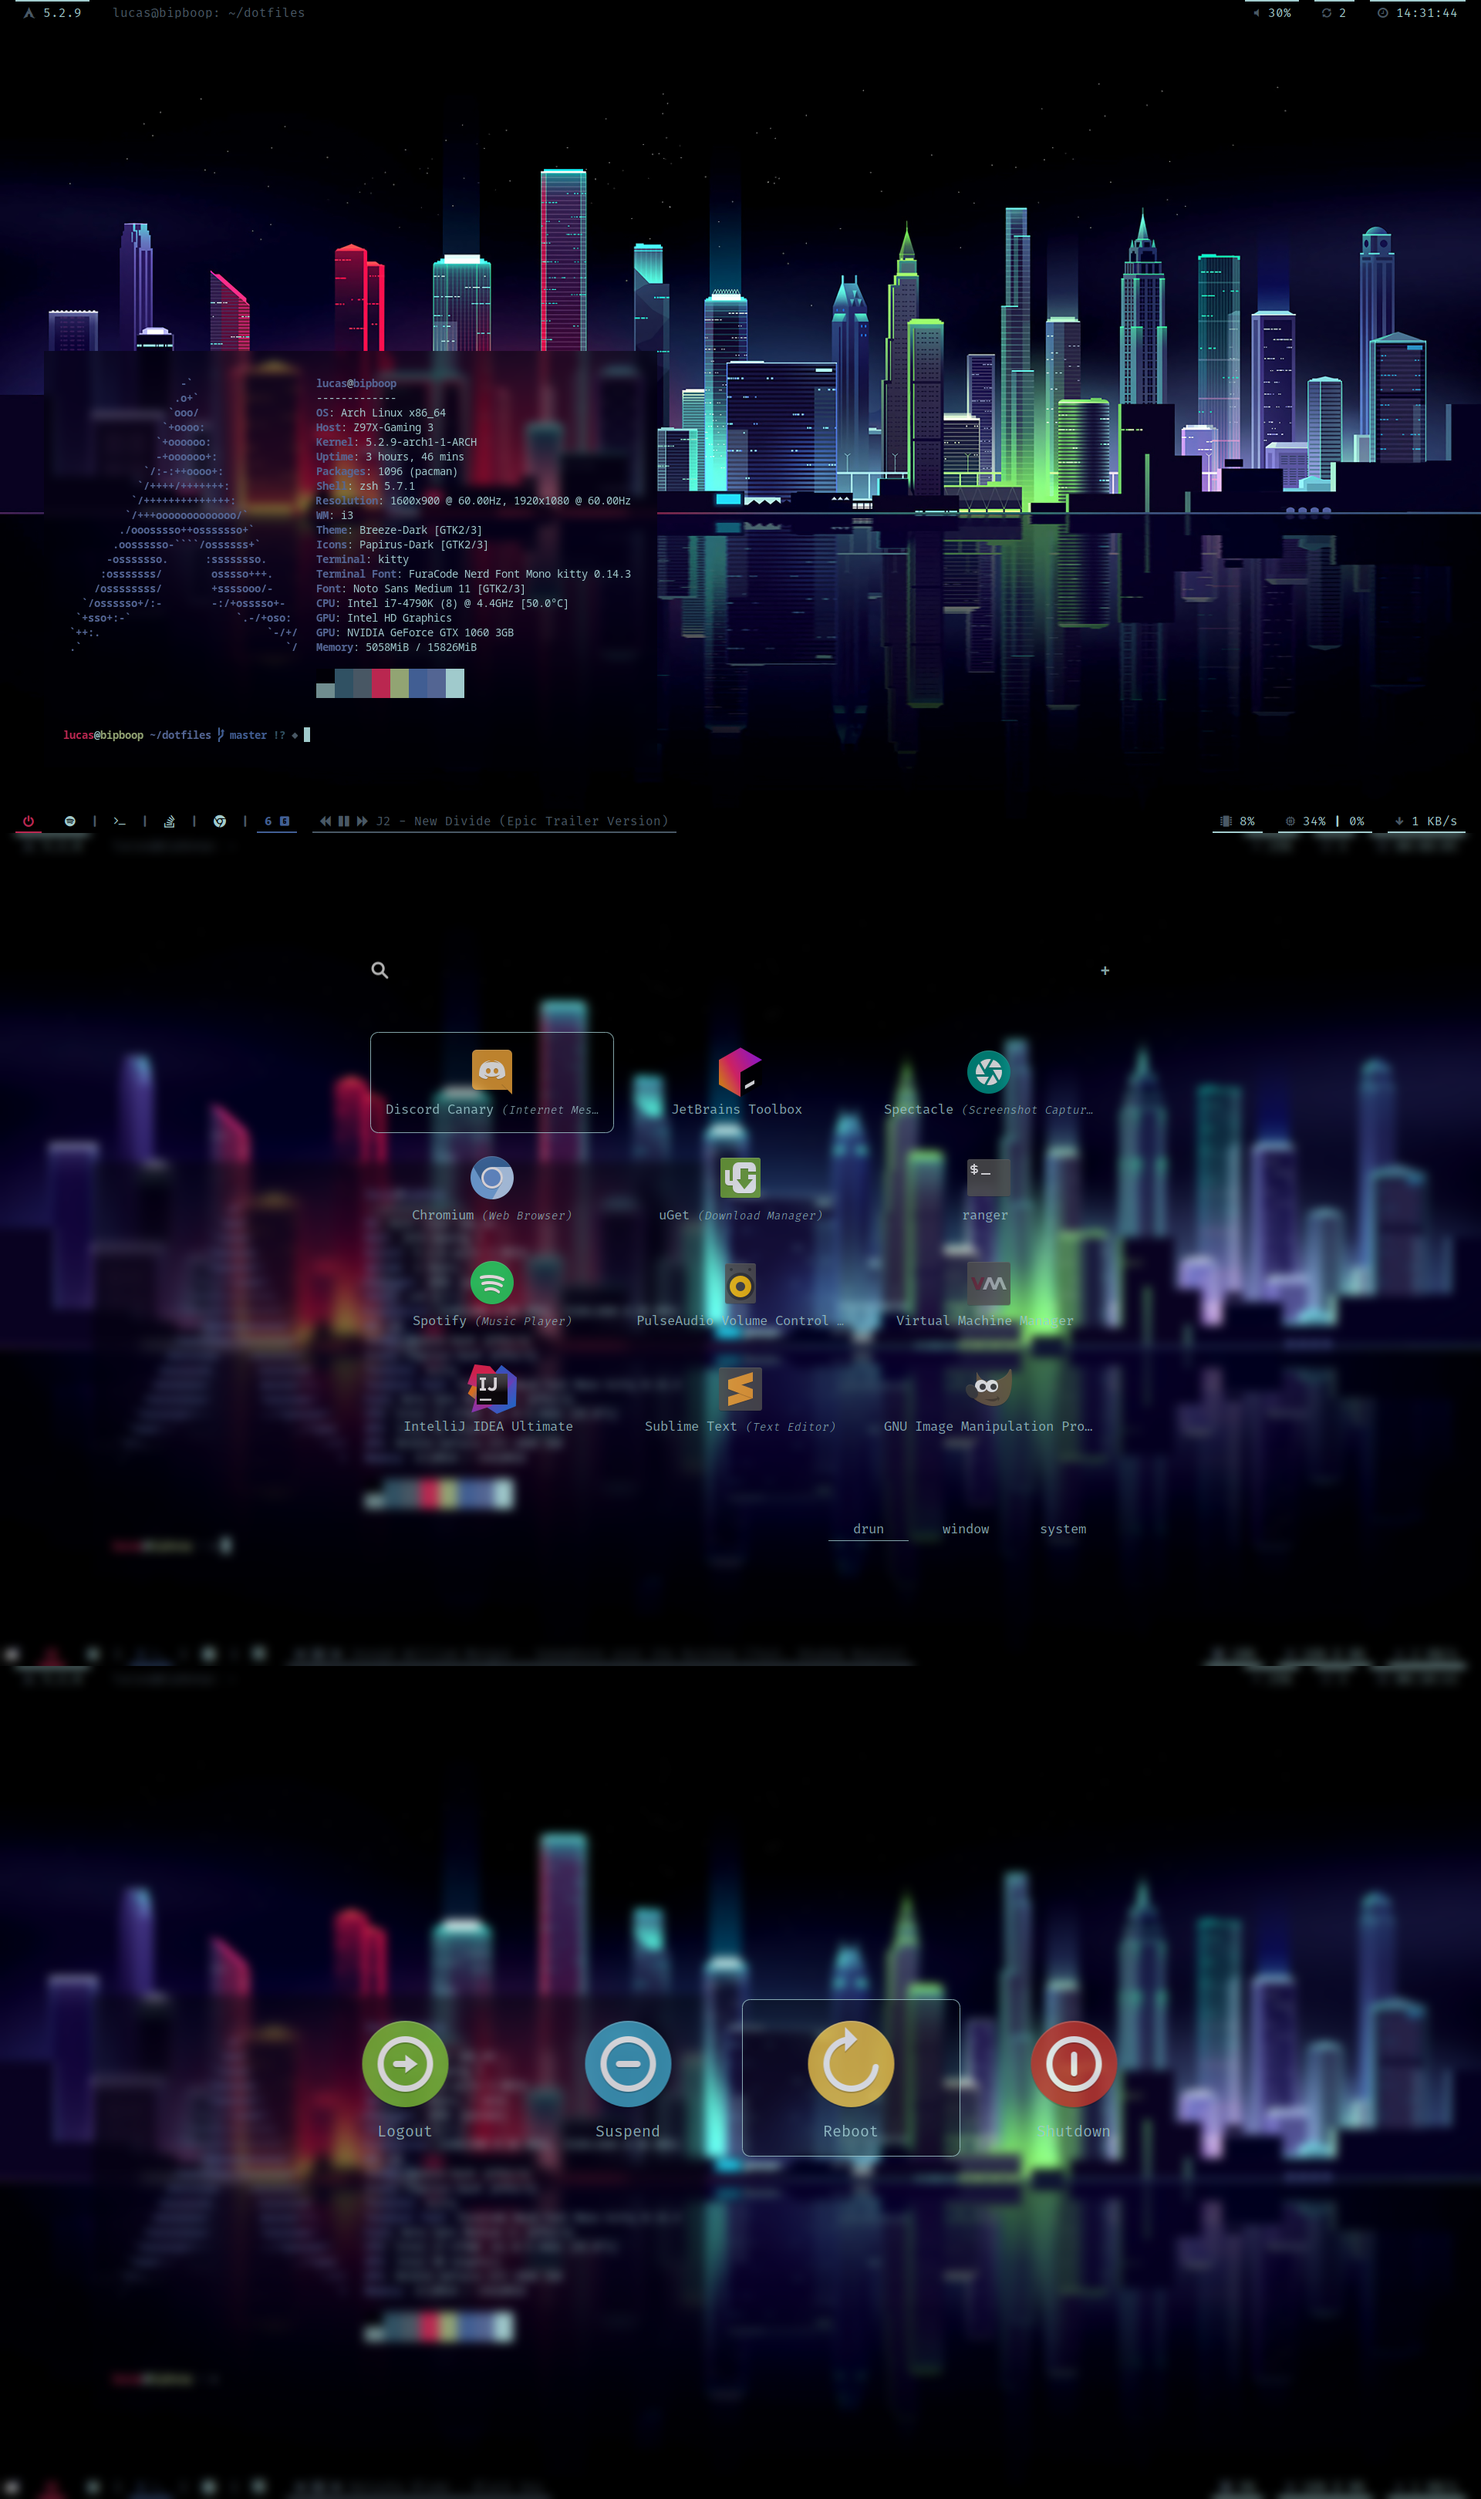
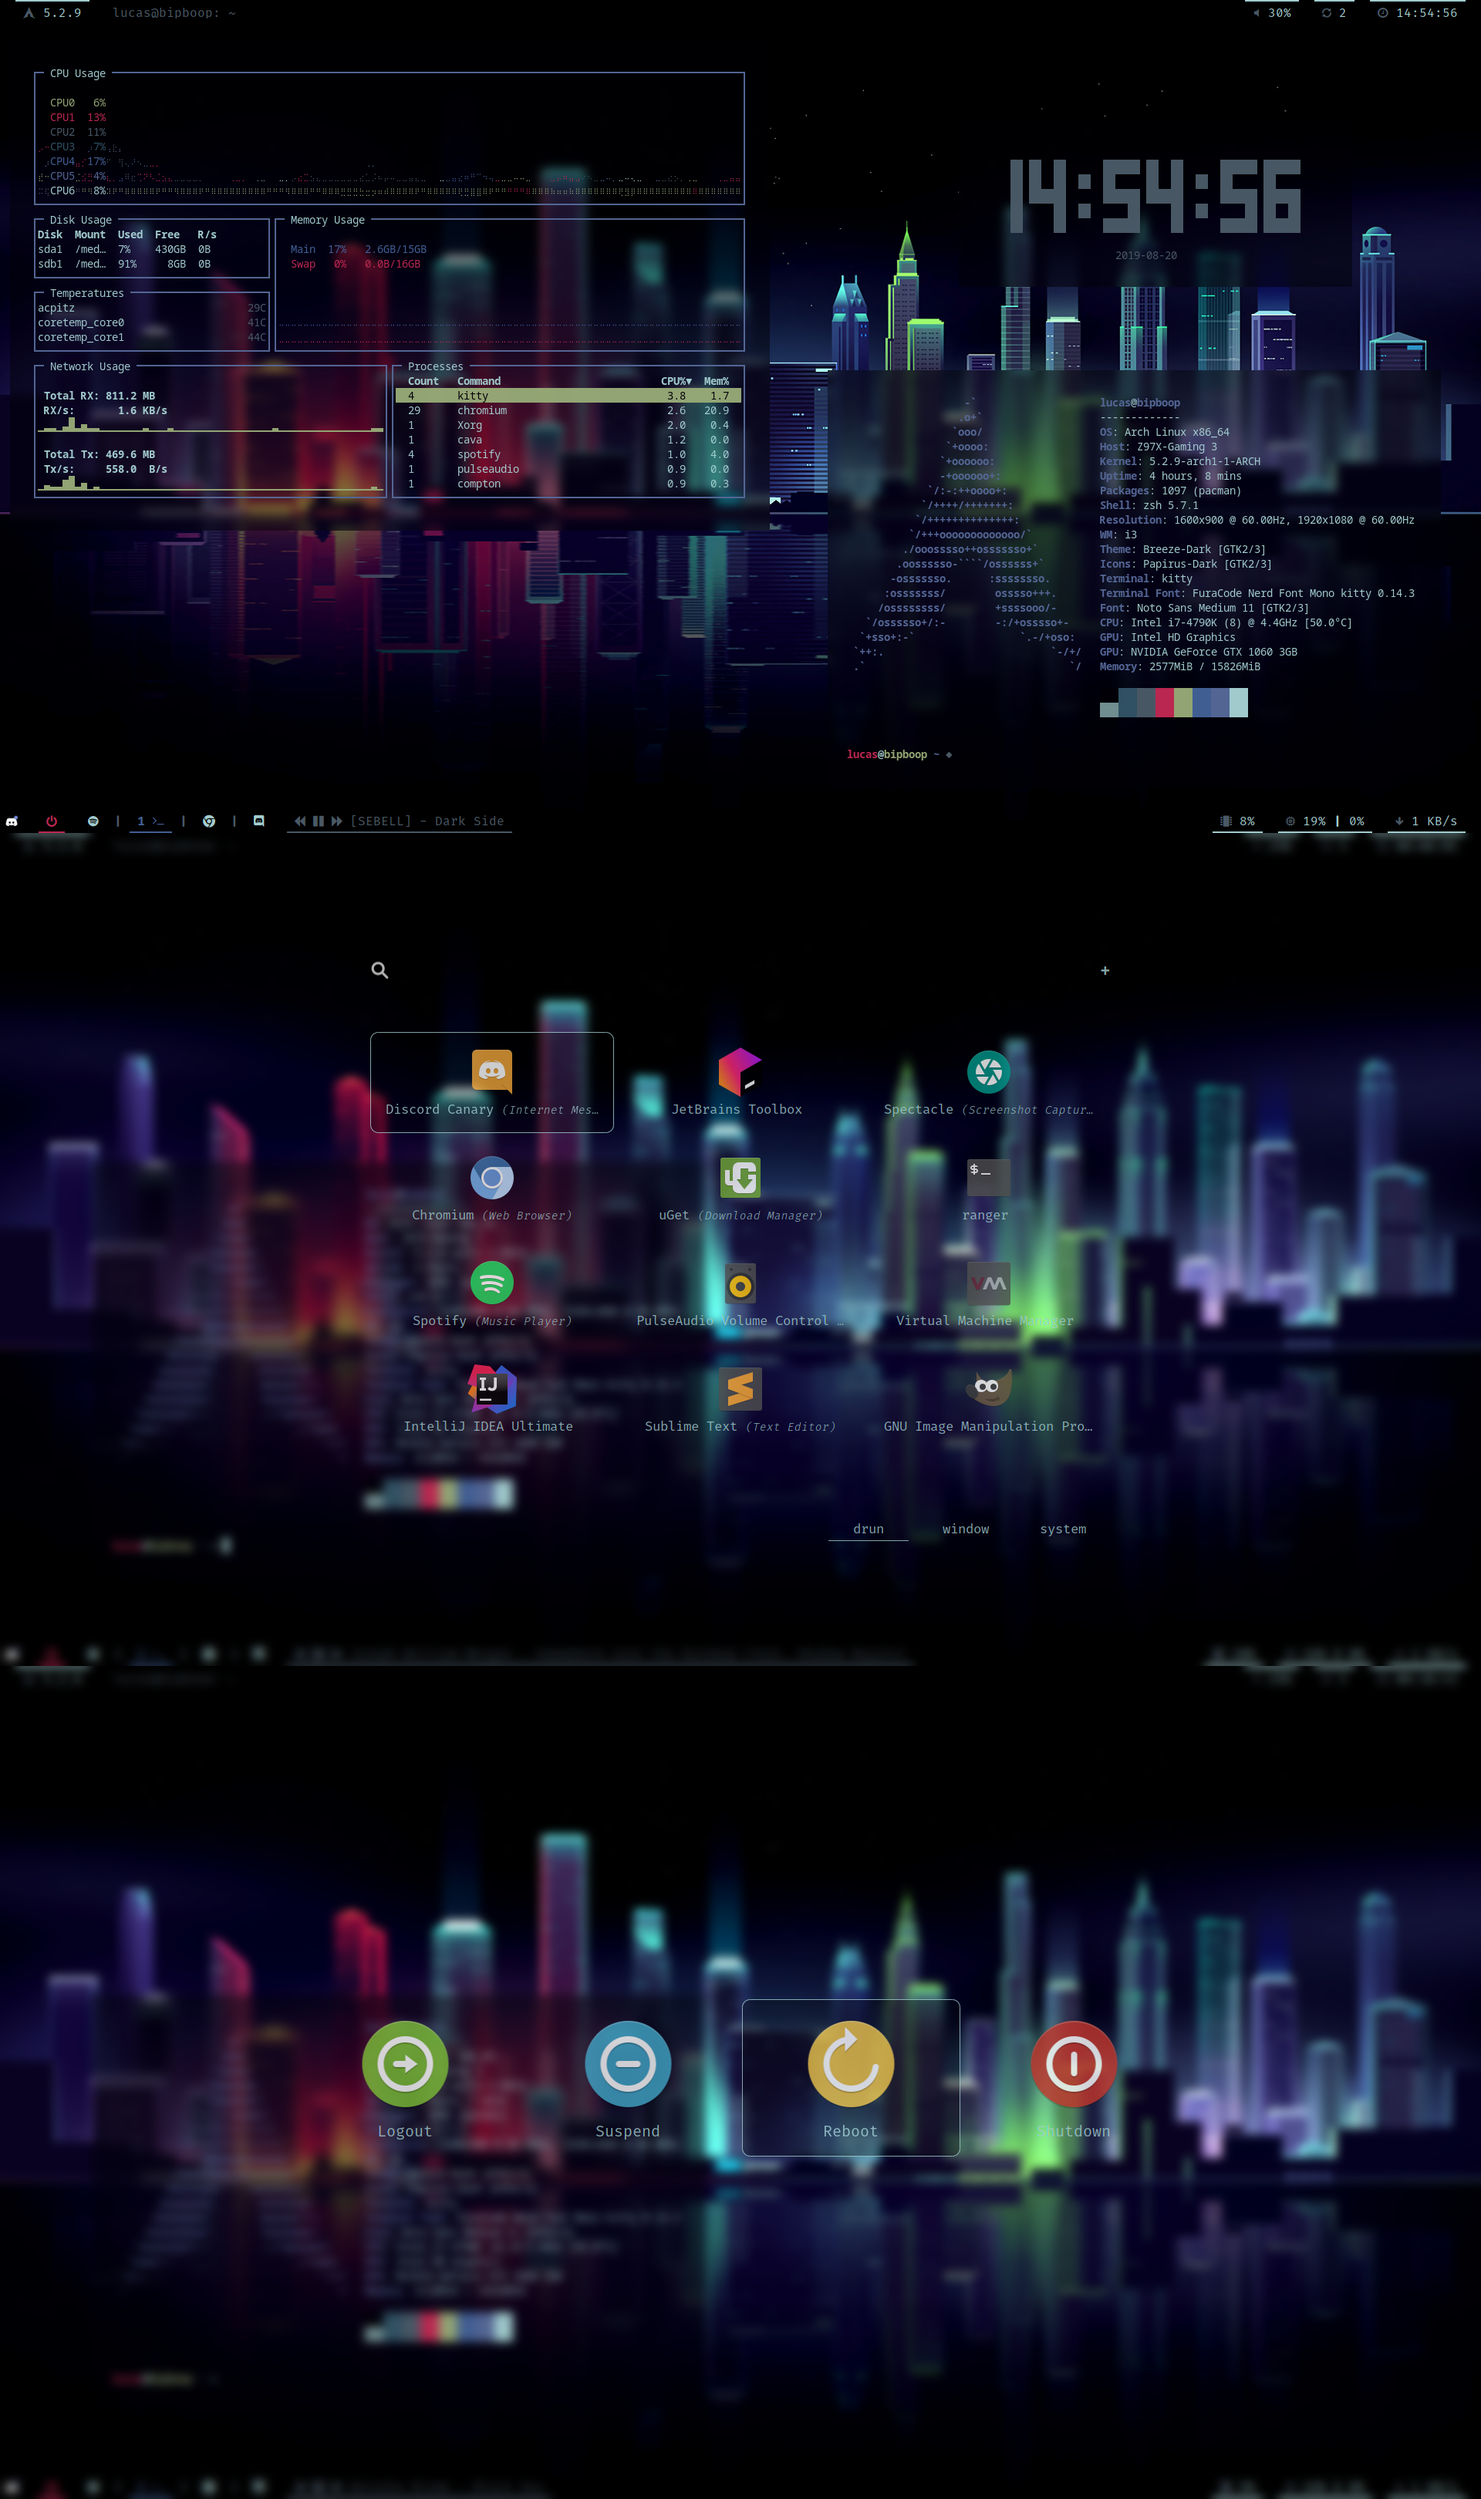
Added cava config, modified screenshots

Changed region(s): [[0.0, 0.0312, 1.0, 0.3117]]

diff --git a/README.md b/README.md
@@ -3,10 +3,15 @@ My config files, feel free to use them as you want.
 
 Not that some config like grub/cura are just here to help me maintain my configs.
 
-## Screenshot
+## Screenshots
 ![Screen](screen.png)
 ![Rofi App Launcher](screen_rofi_apps.png)
 ![Rofi Powermenu](screen_rofi_power.png)
+
+## Backgrounds
+
+* [Background source](https://www.reddit.com/r/vectorwallpapers/comments/bpugqj/neon_city_skyline_3840x2160/)
+* [Locked screen background source](https://www.reddit.com/r/vectorwallpapers/comments/buw3ob/light_at_the_end_of_the_tunnel_1920x1080/)
 
 ## Dependencies
 Packages names from the official [Official Archlinux repository](https://www.archlinux.org/packages/) and the [AUR](https://aur.archlinux.org/packages/).
@@ -20,11 +25,21 @@ without polybar installed).
 		* [compton-tryone-git (kawase blur)](https://github.com/yshui/compton/)
 		* [rofi-git > 1.5.4 (branch next at the time)](https://github.com/DaveDavenport/rofi/)
 		* [kitty](https://github.com/kovidgoyal/kitty)
+		* [playerctl-git](https://github.com/acrisci/playerctl)
+		* [pamixer](https://github.com/cdemoulins/pamixer)
+		* [spotify](https://www.spotify.com)
 	* [betterlockscreen-git](https://github.com/pavanjadhaw/betterlockscreen)
 	* [dunst](https://github.com/dunst-project/dunst)
+* [papirus-icon-theme](https://github.com/PapirusDevelopmentTeam/papirus-icon-theme)
 * [lightdm](https://github.com/CanonicalLtd/lightdm/)
 	* [lightdm-webkit-theme-aether](https://github.com/NoiSek/Aether)
 * [zsh](https://github.com/zsh-users/zsh)
 	* [oh-my-zsh-git](https://github.com/robbyrussell/oh-my-zsh)
 	* [spaceship-prompt-git](https://github.com/denysdovhan/spaceship-prompt)
+* [cava](https://github.com/karlstav/cava)
 * [ranger](https://github.com/ranger/ranger)
+
+## Credits
+
+Somewhat inspired by [this post](https://www.reddit.com/r/unixporn/comments/8anij2/i3gapspolybarpywal_calm_your_mind/).
+Artist that made the wallpaper: [Romain Trystram](http://gallery.wacom.com/romaintrystram).
